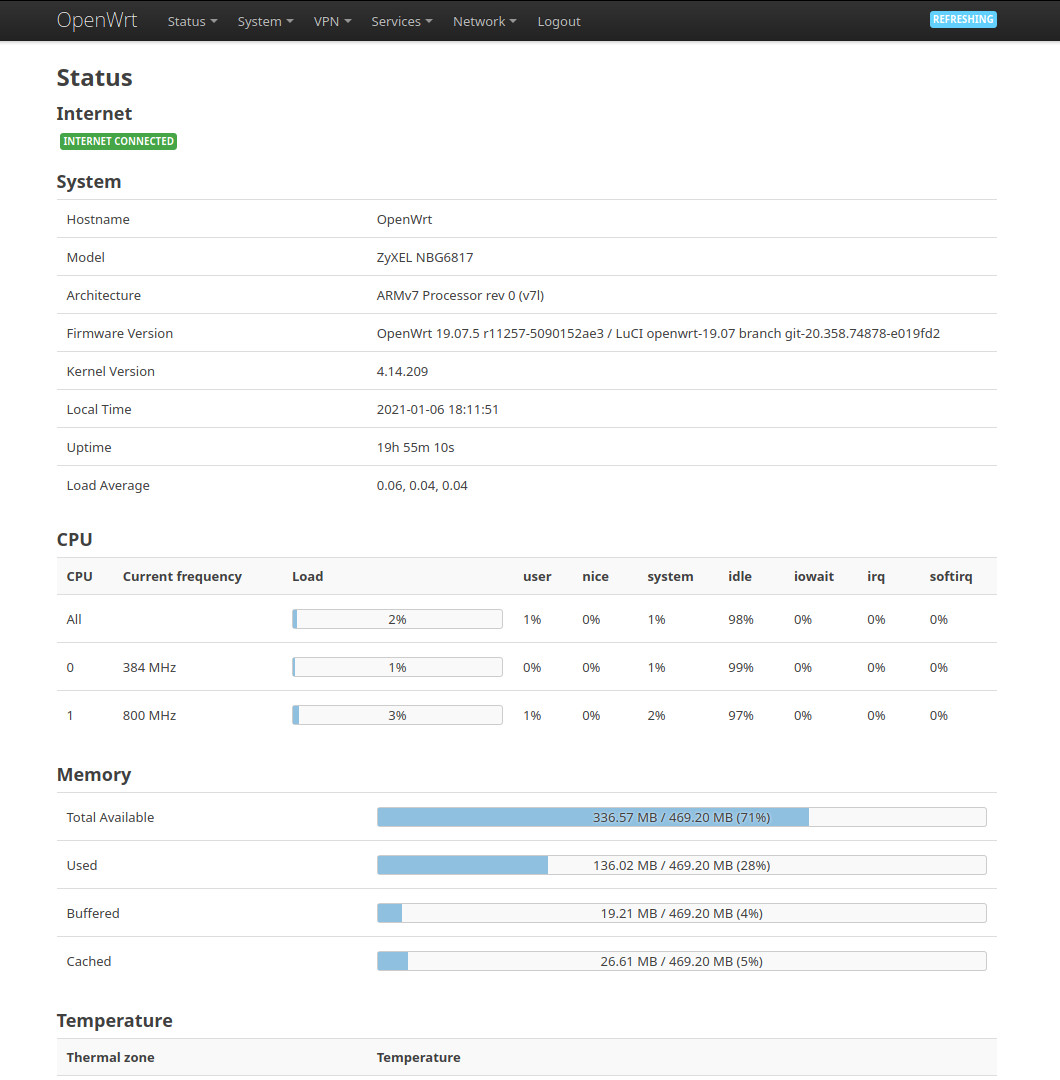
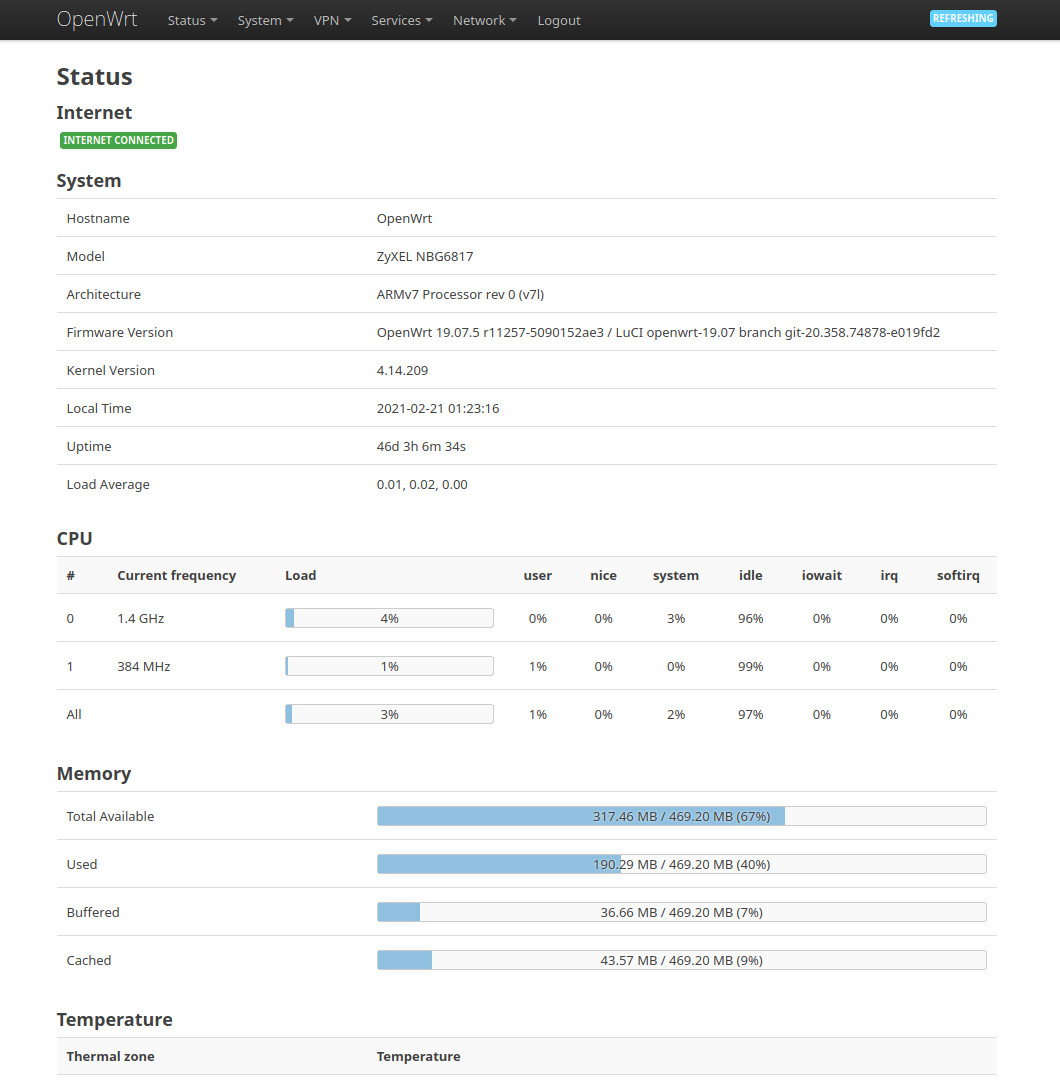
Fixes and improvements. Updated to v0.2

diff --git a/htdocs/luci-static/resources/view/status/include/19_cpu.js b/htdocs/luci-static/resources/view/status/include/19_cpu.js
@@ -4,6 +4,9 @@
 return L.Class.extend({
 	title: _('CPU'),
 
+	// Show CPU frequency. Not supported by some devices!
+	showCPUFreq: true,
+
 	deviceRegExp: new RegExp('^cpu[0-9]+$'),
 
 	sortFunc: function(a, b) {
@@ -29,13 +32,17 @@ return L.Class.extend({
 				window.cpuStatusDevices = [];
 			});
 
-			// Check CPU clock support
-			if(window.cpuStatusDevices.length > 0) {
-				await fs.stat(window.cpuStatusDevices[0][1] + '/cpufreq/cpuinfo_cur_freq').then(stat => {
-					window.cpuStatusFreqSupport = true;
-				}).catch(e => {
-					window.cpuStatusFreqSupport = false;
-				});
+			// Check CPU frequency support
+			if(this.showCPUFreq) {
+				if(window.cpuStatusDevices.length > 0) {
+					await fs.stat(window.cpuStatusDevices[0][1] + '/cpufreq/cpuinfo_cur_freq').then(stat => {
+						window.cpuStatusFreqSupport = true;
+					}).catch(e => {
+						window.cpuStatusFreqSupport = false;
+					});
+				};
+			} else {
+				window.cpuStatusFreqSupport = false;
 			};
 		};
 
@@ -64,7 +71,7 @@ return L.Class.extend({
 
 		for(let str of statStringsArray) {
 			let arr = str.split(/\s+/).slice(0, 8);
-			arr[0] = (arr[0] === 'cpu') ? -1 : Number(arr[0].replace('cpu', ''));
+			arr[0] = (arr[0] === 'cpu') ? Infinity : Number(arr[0].replace('cpu', ''));
 			cpuStatArray.push(arr);
 		};
 
@@ -72,21 +79,26 @@ return L.Class.extend({
 
 		let cpuTable = E('div', { 'class': 'table' },
 			E('div', { 'class': 'tr table-titles' }, [
-				E('div', { 'class': 'th left' }, _('CPU')),
+				E('div', { 'class': 'th left' }, '#&#160;&#160;&#160;&#160;'),
 
 				(window.cpuStatusFreqSupport) ?
 						E('div', { 'class': 'th left' }, _('Current frequency')) : '',
 
 				E('div', { 'class': 'th left' }, _('Load')),
-				E('div', { 'class': 'th left' }, 'user'),
-				E('div', { 'class': 'th left' }, 'nice&#160;&#160;'),
-				E('div', { 'class': 'th left' }, 'system'),
-				E('div', { 'class': 'th left' }, 'idle&#160;&#160;&#160;'),
-				E('div', { 'class': 'th left' }, 'iowait'),
-				E('div', { 'class': 'th left' }, 'irq&#160;&#160;&#160;&#160;'),
-				E('div', { 'class': 'th left' }, 'softirq'),
+				E('div', { 'class': 'th center' }, '&#160;user&#160;'),
+				E('div', { 'class': 'th center' }, '&#160;nice&#160;'),
+				E('div', { 'class': 'th center' }, 'system'),
+				E('div', { 'class': 'th center' }, '&#160;&#160;idle&#160;&#160;'),
+				E('div', { 'class': 'th center' }, 'iowait'),
+				E('div', { 'class': 'th center' }, '&#160;&#160;irq&#160;&#160;'),
+				E('div', { 'class': 'th center' }, 'softirq'),
 			])
 		);
+
+		// For single-core CPU (hide total)
+		if(cpuStatArray.length === 2) {
+			cpuStatArray = cpuStatArray.slice(0, 1);
+		};
 
 		cpuStatArray.forEach((c, i) => {
 			let loadUser = 0;
@@ -119,12 +131,17 @@ return L.Class.extend({
 			cpuTable.append(
 				E('div', { 'class': 'tr' }, [
 					E('div', { 'class': 'td left' },
-						(i === 0) ? _('All') : window.cpuStatusDevices[i - 1][0]),
+						(cpuStatArray[i][0] === Infinity) ? _('All') : window.cpuStatusDevices[i][0]),
 
 					(window.cpuStatusFreqSupport) ?
 						E('div', { 'class': 'td left'},
-							(i === 0) ? '' : (cpuData[i] === '') ?
-								'-' : (cpuData[i] / 1000) + ' ' + _('MHz')) : '',
+							(cpuStatArray[i][0] === Infinity) ? '' : (cpuData[i + 1] === '') ? '-' :
+								(cpuData[i + 1] >= 1e6) ?
+									(cpuData[i + 1] / 1e6) + ' ' + _('GHz')
+								:
+									(cpuData[i + 1] / 1e3) + ' ' + _('MHz')
+						)
+					: '',
 
 					E('div', { 'class': 'td left' },
 						E('div', {
@@ -134,13 +151,13 @@ return L.Class.extend({
 							E('div', { 'style': 'width:' + loadAvg + '%' })
 						)
 					),
-					E('div', { 'class': 'td left' }, loadUser + '%'),
-					E('div', { 'class': 'td left' }, loadNice + '%'),
-					E('div', { 'class': 'td left' }, loadSys + '%'),
-					E('div', { 'class': 'td left' }, loadIdle + '%'),
-					E('div', { 'class': 'td left' }, loadIo + '%'),
-					E('div', { 'class': 'td left' }, loadIrq + '%'),
-					E('div', { 'class': 'td left' }, loadSirq + '%'),
+					E('div', { 'class': 'td center' }, loadUser + '%'),
+					E('div', { 'class': 'td center' }, loadNice + '%'),
+					E('div', { 'class': 'td center' }, loadSys + '%'),
+					E('div', { 'class': 'td center' }, loadIdle + '%'),
+					E('div', { 'class': 'td center' }, loadIo + '%'),
+					E('div', { 'class': 'td center' }, loadIrq + '%'),
+					E('div', { 'class': 'td center' }, loadSirq + '%'),
 				])
 			);
 		});

diff --git a/README.md b/README.md
@@ -5,16 +5,16 @@ OpenWrt >= 19.07.
 
 **Installation notes:**
 
-    wget --no-check-certificate -O /tmp/luci-app-cpu-status_0.1-1_all.ipk https://github.com/gSpotx2f/luci-app-cpu-status/raw/master/packages/19.07/luci-app-cpu-status_0.1-1_all.ipk
-    opkg install /tmp/luci-app-cpu-status_0.1-1_all.ipk
-    rm /tmp/luci-app-cpu-status_0.1-1_all.ipk
+    wget --no-check-certificate -O /tmp/luci-app-cpu-status_0.2-1_all.ipk https://github.com/gSpotx2f/luci-app-cpu-status/raw/master/packages/19.07/luci-app-cpu-status_0.2-1_all.ipk
+    opkg install /tmp/luci-app-cpu-status_0.2-1_all.ipk
+    rm /tmp/luci-app-cpu-status_0.2-1_all.ipk
     /etc/init.d/rpcd restart
 
 **i18n-ru:**
 
-    wget --no-check-certificate -O /tmp/luci-i18n-cpu-status-ru_0.1-1_all.ipk https://github.com/gSpotx2f/luci-app-cpu-status/raw/master/packages/19.07/luci-i18n-cpu-status-ru_0.1-1_all.ipk
-    opkg install /tmp/luci-i18n-cpu-status-ru_0.1-1_all.ipk
-    rm /tmp/luci-i18n-cpu-status-ru_0.1-1_all.ipk
+    wget --no-check-certificate -O /tmp/luci-i18n-cpu-status-ru_0.2-1_all.ipk https://github.com/gSpotx2f/luci-app-cpu-status/raw/master/packages/19.07/luci-i18n-cpu-status-ru_0.2-1_all.ipk
+    opkg install /tmp/luci-i18n-cpu-status-ru_0.2-1_all.ipk
+    rm /tmp/luci-i18n-cpu-status-ru_0.2-1_all.ipk
 
 **Screenshots:**
 
